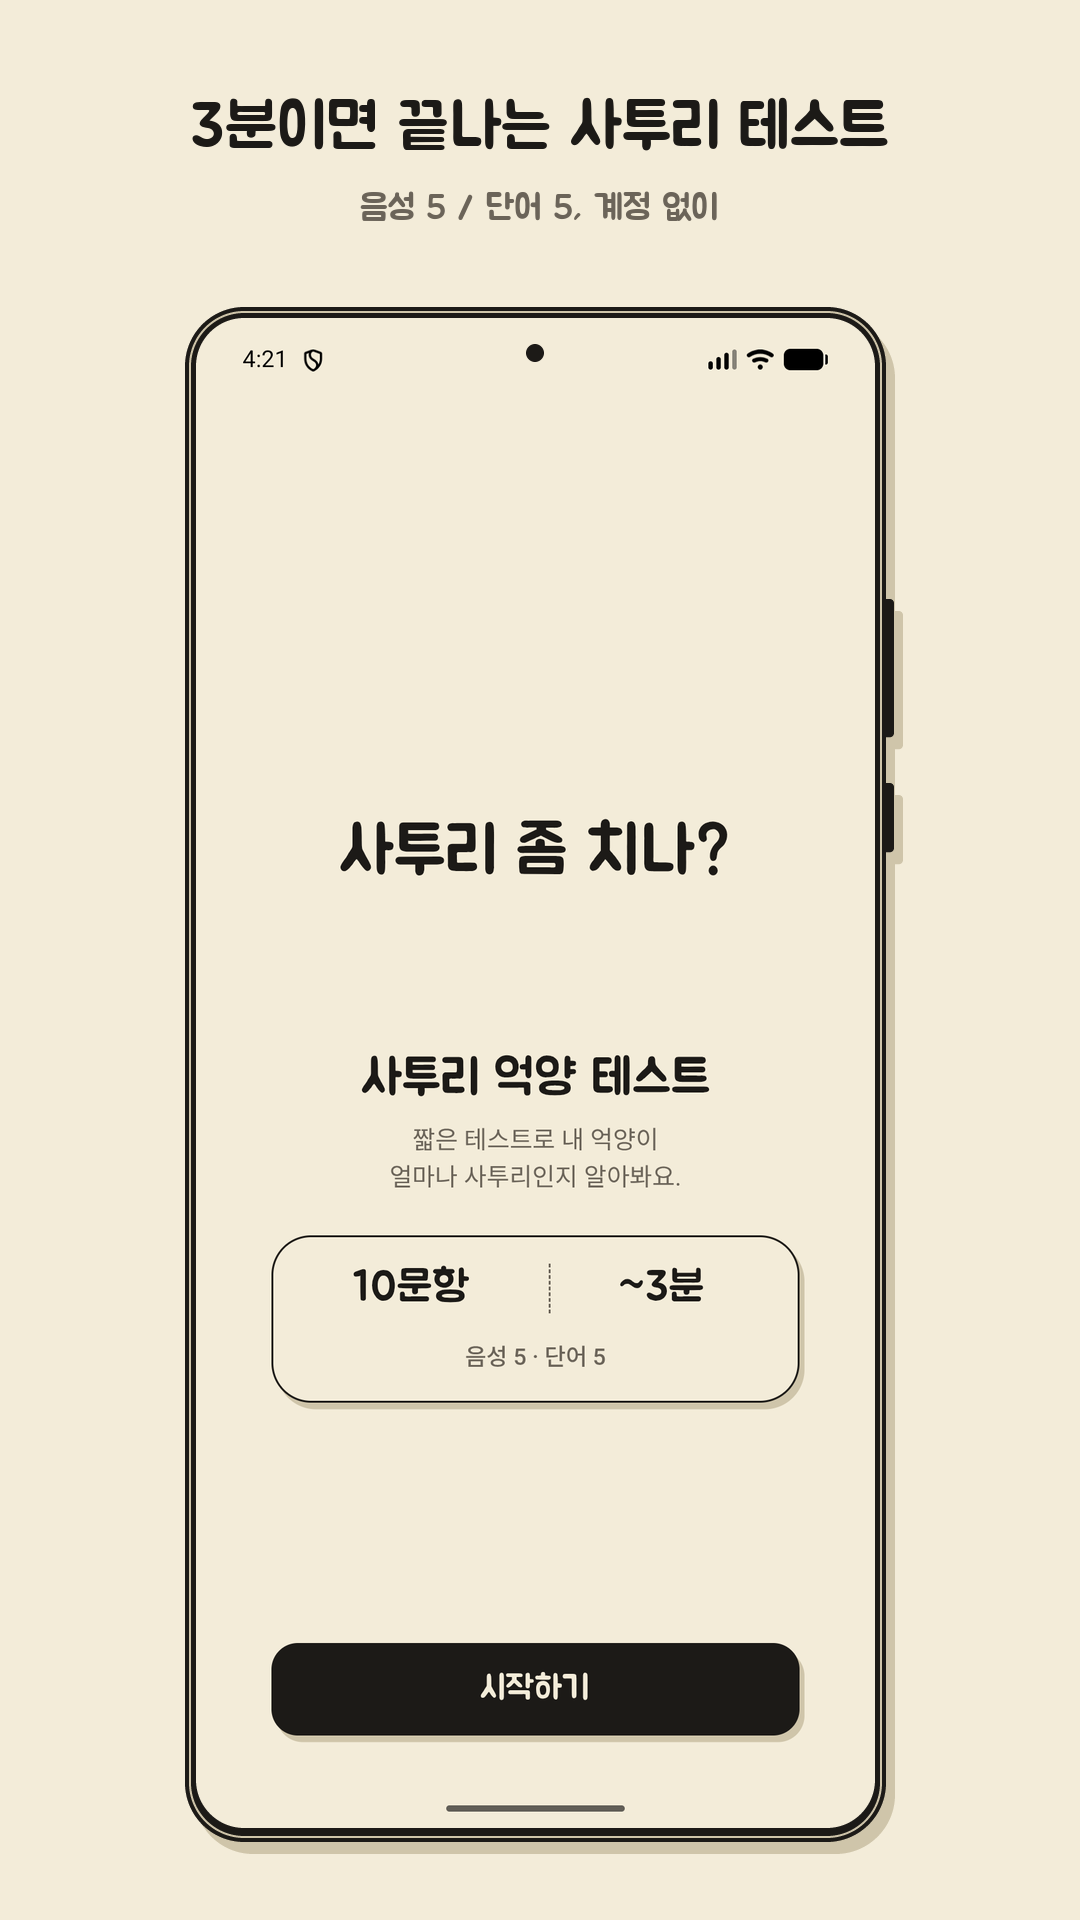
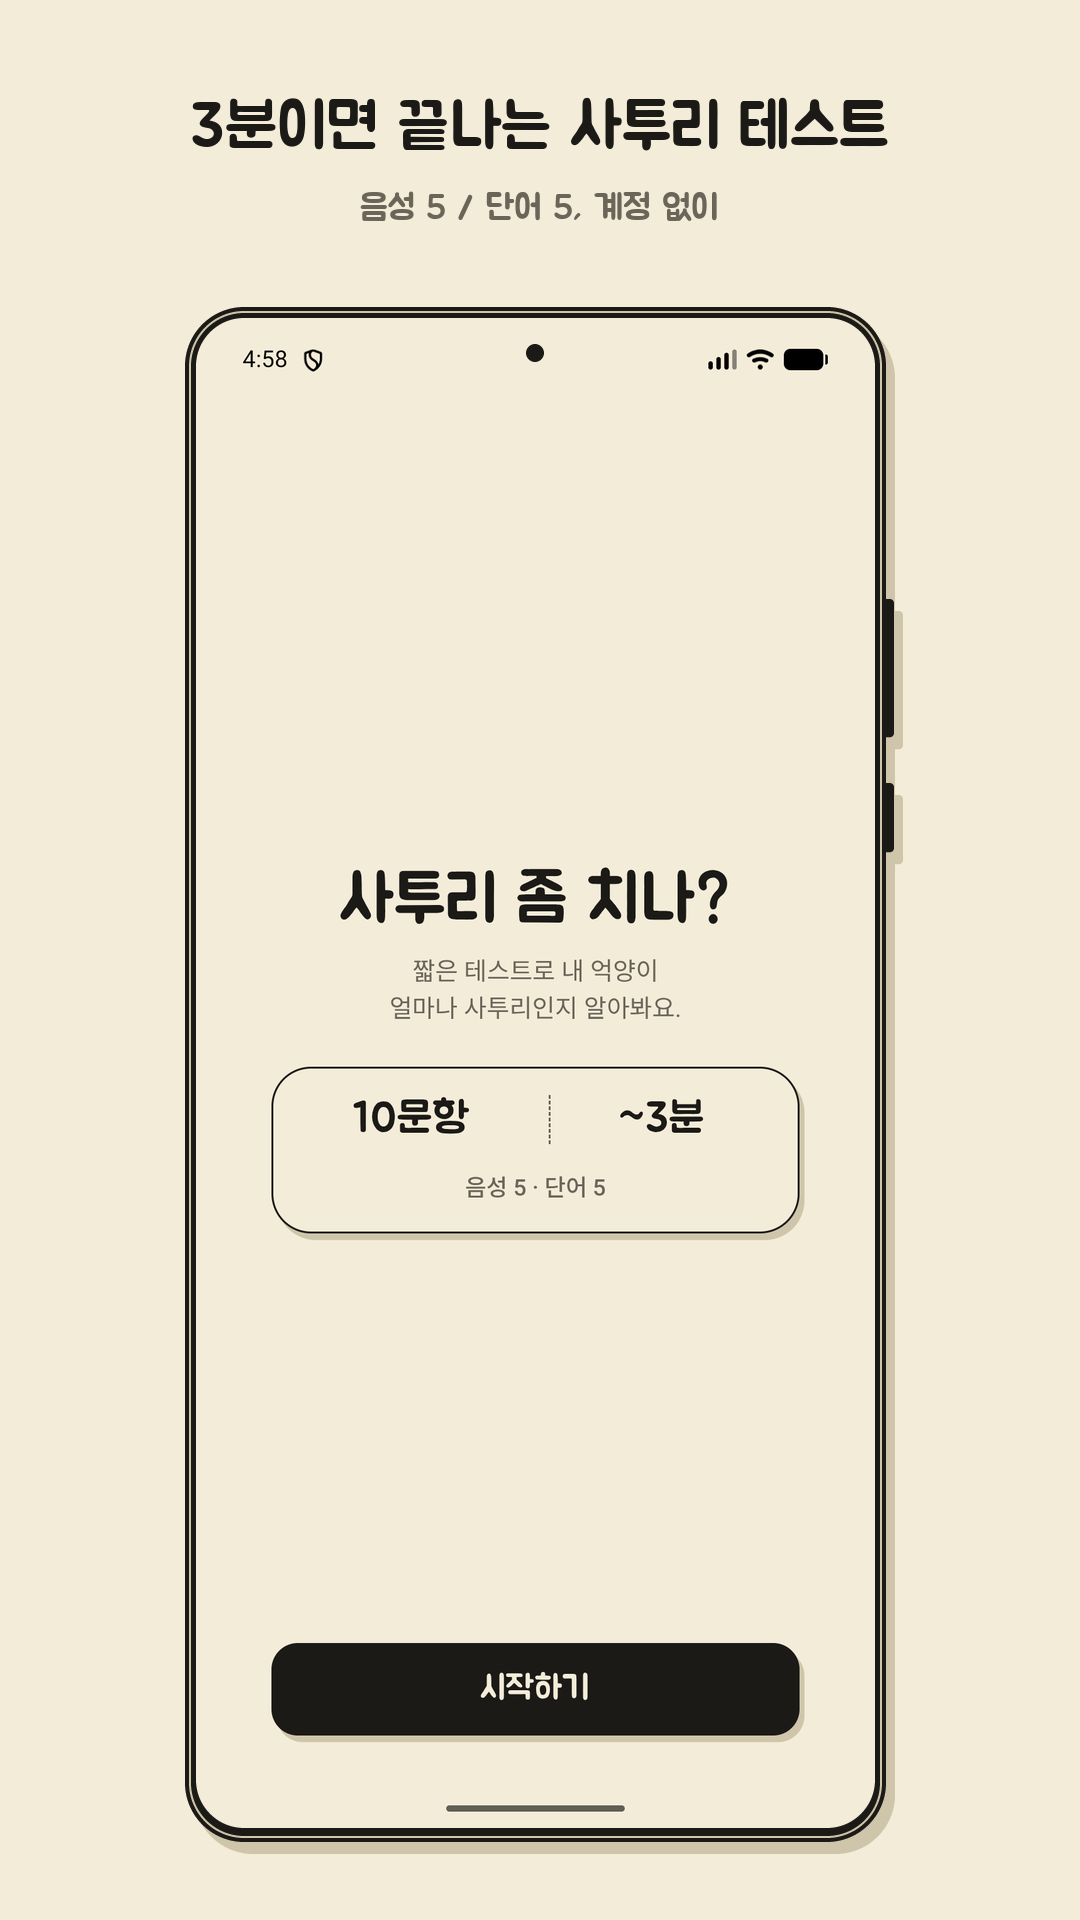
KAN-178 인트로에서 중복 제목 제거 - 텍스트 히어로가 h1 역할을 넘겨받음
- "사투리 억양 테스트" h1 삭제, TextHero에 heading 옵션 추가(인트로만 h1, 대기 화면은 기존대로 aria-hidden)
- 인트로 원본 캡처(Android·iOS) 재촬영, 프레임 재생성

Claude-Session: https://claude.ai/code/session_01Nud2Q8pYYmbEKkf6aeyY5Q

Changed region(s): [[0.2444, 0.4062, 0.7639, 0.7188], [0.275, 0.6875, 0.7333, 0.75]]

diff --git a/web/src/ui/components.css b/web/src/ui/components.css
@@ -288,18 +288,15 @@
  * 주므로 값은 화면이 변수로 넘긴다. 높이를 미리 잡아 두면 안엣것이 그려지기 전후로 아래
  * 요소가 오르내리지 않는다.
  *
- * 인트로·대기 화면은 그림 대신 `.text-hero`가 든다 (KAN-178). 슬롯 높이를 건드리지 않은
- * 것은 의도다 — 글자 한 줄이 그림보다 낮아도 아래 제목·카드는 있던 자리에 그대로 남는다.
+ * 대기 화면은 그림 대신 `.text-hero`가 든다 (KAN-178). 슬롯 높이를 건드리지 않은 것은
+ * 의도다 — 글자 한 줄이 그림보다 낮아도 아래 제목·카드는 있던 자리에 그대로 남는다.
+ * 인트로 슬롯(192)은 사라졌다: 제목을 걷어내면서 히어로를 슬롯 밖으로 꺼냈다 (`.intro-hero`).
  */
 .illustration {
   display: flex;
   align-items: center;
   justify-content: center;
   flex-shrink: 0;
-}
-
-.illustration--intro {
-  height: 192px;
 }
 
 .illustration--waiting {
@@ -311,8 +308,8 @@
  * 크림 면·오프셋 그림자)에 얹었는데, 한 화면에 종이가 두 장 겹쳐 보였다 — 바로 아래 대사
  * 카드와 같은 두께라 히어로가 카드의 예고편처럼 읽혔다. 면을 걷어내고 잉크 글자만 남긴다.
  *
- * Jua 40(`--text-display`)은 팔레트에서 가장 큰 글자다. 바로 아래 제목이 30·26이라
- * 이보다 작으면 히어로가 아니라 제목이 둘인 화면이 된다.
+ * Jua 40(`--text-display`)은 팔레트에서 가장 큰 글자다. 대기 화면은 바로 아래 제목이
+ * 30·26이라 이보다 작으면 히어로가 아니라 제목이 둘인 화면이 된다.
  *
  * `keep-all`은 한국어에서 필수다 — 기본값이면 낱말 가운데서 잘린다. `balance`는 두 줄로
  * 넘어갈 때 줄 길이를 맞춘다. 지원하지 않는 브라우저는 평범하게 흘려 담을 뿐이라 깨지지
@@ -329,6 +326,29 @@
   text-align: center;
   word-break: keep-all;
   text-wrap: balance;
+}
+
+/*
+ * 인트로의 히어로 + 부제 (KAN-178). 중복이던 제목("사투리 억양 테스트")을 걷어내면서
+ * 히어로가 이 화면의 h1이 됐고, 그러면 부제는 제목에 딸린 줄이라 **한 덩어리로 읽혀야 한다**.
+ *
+ * 그래서 인트로에서는 히어로를 192px 슬롯 밖으로 꺼냈다(대기 화면은 `.illustration--waiting`에
+ * 그대로 둔다). 슬롯은 그림이 뜨기 전후로 아래가 오르내리지 않게 높이를 미리 잡아 두는
+ * 자리인데, 글자에는 늦게 도착할 것이 없어 잡아 둘 이유가 사라졌다. 남는 것은 40px 글자를 192px 안에 가운데 세우고 생기는
+ * 위아래 ~73px의 빈 자리뿐이고, 제목이 있던 때는 그 여백이 "히어로 밴드 / 제목 블록"의
+ * 경계로 읽혔지만 지금은 제목과 부제 사이를 벌려 놓아 부제가 카드 쪽에 붙어 보인다.
+ *
+ * 간격은 걷어낸 제목이 부제와 두던 8px 그대로다. 히어로가 30px 제목보다 크니 사이도
+ * 넓혀야 할 것 같지만, 12px로 벌려 보니 부제가 카드 쪽으로 붙어 세 덩어리처럼 읽혔다 —
+ * 아래 카드와의 간격(`.screen__body`의 24px)이 위와 비슷해지는 순간 짝이 흐려진다.
+ * 8px이면 그 차이가 세 배라 "붙은 두 줄 + 떨어진 카드"로 한 번에 갈린다.
+ */
+.intro-hero {
+  display: flex;
+  flex-direction: column;
+  align-items: center;
+  gap: var(--space-2);
+  width: 100%;
 }
 
 /*

diff --git a/web/src/ui/TextHero.tsx b/web/src/ui/TextHero.tsx
@@ -6,21 +6,38 @@
  * 않았고, 스토어 스크린샷처럼 축소된 자리에서는 선이 뭉개져 무엇을 그린 것인지도 읽히지
  * 않았다 — 같은 자리에 큰 글자 한 줄을 세우면 화면을 열자마자 문장이 먼저 온다.
  *
- * `aria-hidden`이 기본인 이유는 IntroHero와 같다: 옆에 있는 h1이 이미 화면 이름을 말한다.
- * 그림이든 글자든 장식에 라벨이 붙으면 스크린 리더가 같은 화면을 두 번 소개한다.
+ * ## 장식이 기본이고 제목은 선택인 이유
+ *
+ * 두 화면이 히어로를 같은 자리에 세우지만 **접근성 트리에서 맡는 역할은 반대다**.
+ *
+ * - 분석 대기 화면(기본값): 아래 h1이 진행 상태("분석 중입니다 · N%")를 실어 나른다.
+ *   상태가 바뀔 때마다 갱신되는 그 제목이 화면 이름이라, 히어로까지 라벨을 가지면
+ *   스크린 리더가 같은 화면을 두 번 소개한다 — 그래서 `<p aria-hidden>`으로 남긴다.
+ * - 인트로 화면(`heading`): 중복이던 h1("사투리 억양 테스트")을 걷어냈다. 이제 화면
+ *   이름을 말하는 것이 히어로 문구뿐이므로 `<h1>`으로 서야 한다. 여기서 `aria-hidden`을
+ *   달아 두면 인트로에 제목이 하나도 남지 않아 접근 가능한 이름을 잃는다.
+ *
+ * 두 갈래를 boolean 하나로 가른 것은 의도다 — `aria-hidden`과 태그를 따로 받으면
+ * "h1인데 숨겨진 히어로" 같은 조합이 만들어지고, 그게 정확히 막으려는 상태다.
  */
 
 import type { ReactNode } from 'react'
 
 export interface TextHeroProps {
   children: ReactNode
-  /** 이 문구를 대신 읽어 줄 제목이 옆에 없을 때만 false로 준다 */
-  'aria-hidden'?: boolean
+  /**
+   * 이 문구가 곧 화면 이름일 때만 true — `<h1>`으로 서고 `aria-hidden`이 걷힌다.
+   * 기본값(false)은 장식이라는 뜻이고, 화면 이름을 말할 제목이 따로 있다는 전제가 붙는다.
+   */
+  heading?: boolean
 }
 
-export function TextHero({ children, 'aria-hidden': ariaHidden = true }: TextHeroProps) {
+export function TextHero({ children, heading = false }: TextHeroProps) {
+  if (heading) {
+    return <h1 className="text-hero">{children}</h1>
+  }
   return (
-    <p className="text-hero" aria-hidden={ariaHidden}>
+    <p className="text-hero" aria-hidden>
       {children}
     </p>
   )

diff --git a/web/src/intro/IntroScreen.tsx b/web/src/intro/IntroScreen.tsx
@@ -112,13 +112,17 @@ export function IntroScreen({
           종이 일러스트(확성기를 든 사람)를 걷어내고 글자를 세웠다 (KAN-178). 그림은 이 앱이
           무엇을 하는 곳인지 말하지 않았다 — 첫 화면은 사용자에게 말을 걸어야 하고, 그건
           그리는 것보다 적는 편이 빠르다.
-        */}
-        <div className="illustration illustration--intro">
-          <TextHero>사투리 좀 치나?</TextHero>
-        </div>
 
-        <div style={{ display: 'flex', flexDirection: 'column', gap: 'var(--space-2)' }}>
-          <h1 className="type-title">사투리 억양 테스트</h1>
+          히어로가 이 화면의 h1이다. 아래에 있던 제목("사투리 억양 테스트")을 걷어냈다 —
+          큰 글자로 말을 건 바로 밑에서 같은 말을 정색하고 되풀이하는 꼴이었고, 사용자가
+          그 두 줄에서 새로 얻는 정보가 없었다. 화면 이름을 말하는 것이 히어로 하나뿐이므로
+          `heading`으로 세운다 (`TextHero` 주석 참고).
+
+          제목이 빠진 만큼 히어로를 192px 슬롯에서 꺼내 부제와 한 덩어리로 묶었다 —
+          근거는 `.intro-hero` 주석에 적었다.
+        */}
+        <div className="intro-hero">
+          <TextHero heading>사투리 좀 치나?</TextHero>
           <p className="type-body-sm" style={{ color: 'var(--color-muted-foreground)' }}>
             짧은 테스트로 내 억양이
             <br />

diff --git a/web/src/App.test.tsx b/web/src/App.test.tsx
@@ -154,7 +154,8 @@ describe('App — 스큐 판정 분기', () => {
   it('호환 버전이면 인트로가 뜨고 문항 구성·예상 시간이 정확히 표시된다 (AC 1)', () => {
     setSearch(`?bridge=${REQUIRED_BRIDGE_VERSION}&app=1.0`)
     render(<App />)
-    expect(screen.getByText('사투리 억양 테스트')).toBeInTheDocument()
+    // 인트로의 h1은 텍스트 히어로다 (KAN-178) — 같은 말을 되풀이하던 제목을 걷어냈다
+    expect(screen.getByRole('heading', { level: 1, name: '사투리 좀 치나?' })).toBeInTheDocument()
     // KAN-148에서 한 문장이던 표기가 숫자 칸으로 갈렸다 - 확인하는 값은 그대로다
     expect(screen.getByText('10문항')).toBeInTheDocument()
     expect(screen.getByText('~3분')).toBeInTheDocument()
@@ -345,7 +346,7 @@ describe('App — 웹 단독 실행 (KAN-31)', () => {
 
     // 네이티브 권한 게이트가 받았으므로 웹은 여기서 손을 뗀다 — 화면 전체를 앱이 갈아치운다
     expect(screen.queryByText('목소리를 확인할게요')).not.toBeInTheDocument()
-    expect(screen.getByText('사투리 억양 테스트')).toBeInTheDocument()
+    expect(screen.getByRole('heading', { level: 1, name: '사투리 좀 치나?' })).toBeInTheDocument()
   })
 
   it('[시작하기]가 공유 링크의 유입 코드를 실어 세션을 만들고 문항 화면으로 넘긴다', async () => {

diff --git a/web/src/intro/IntroScreen.test.tsx b/web/src/intro/IntroScreen.test.tsx
@@ -126,11 +126,14 @@ describe('IntroScreen — 마이크 게이트 (KAN-56)', () => {
 })
 
 describe('IntroScreen — 텍스트 히어로 (KAN-178)', () => {
-  it('그림 대신 "사투리 좀 치나?"가 서고, 제목은 그대로 남는다', () => {
+  it('히어로 문구가 이 화면의 h1이고, 중복이던 제목은 걷혔다', () => {
     render(<IntroScreen requestWebPermission={permissionStub('granted')} />)
 
-    expect(screen.getByText('사투리 좀 치나?')).toBeInTheDocument()
-    // 히어로는 장식이라 제목을 대신하지 않는다 — 화면 이름은 여전히 h1이 말한다
-    expect(screen.getByRole('heading', { level: 1, name: '사투리 억양 테스트' })).toBeInTheDocument()
+    // 화면 이름을 말하는 것이 히어로뿐이라 장식으로 두면 인트로가 접근 가능한 이름을 잃는다
+    expect(screen.getByRole('heading', { level: 1, name: '사투리 좀 치나?' })).toBeInTheDocument()
+    // 히어로 바로 밑에서 같은 말을 되풀이하던 제목이다
+    expect(screen.queryByText('사투리 억양 테스트')).not.toBeInTheDocument()
+    // 제목 자리를 넘겨받은 것이지 하나 더 생긴 것이 아니다 — h1은 여전히 하나다
+    expect(screen.getAllByRole('heading', { level: 1 })).toHaveLength(1)
   })
 })

diff --git a/web/src/analysis/AnalysisWaitingScreen.test.tsx b/web/src/analysis/AnalysisWaitingScreen.test.tsx
@@ -531,7 +531,8 @@ describe('텍스트 히어로 (KAN-178)', () => {
       fetchImpl: fetchFor({ analyses: () => jsonResponse(200, statusesBody(Array(5).fill('PROCESSING'))) }),
     })
 
-    expect(screen.getByText('분석 중입니다')).toBeInTheDocument()
+    // 인트로와 달리 여기서는 히어로가 장식이다 (KAN-178) — 상태를 실어 나르는 h1이 아래에 있다
+    expect(screen.getByText('분석 중입니다')).toHaveAttribute('aria-hidden', 'true')
     // 히어로는 "분석 중" 한 상태를 붙박이로 말하고, 제목은 그 안에서 무엇이 진행 중인지를 말한다
     expect(screen.getByRole('heading', { level: 1, name: '결과를 만들고 있어요' })).toBeInTheDocument()
   })

diff --git a/docs/wiki/app-icon-assets.md b/docs/wiki/app-icon-assets.md
@@ -223,6 +223,7 @@ xcrun simctl io booted screenshot assets/screenshots/raw/ios/01-intro.png
 - **인트로·분석 대기 화면의 일러스트를 텍스트 히어로로 갈았다** (2026-09-03) — 오려 낸 종이 그림(확성기 든 사람·계단)이 스토어 캡처 크기로 줄면 선이 뭉개져 무엇을 그린 것인지 읽히지 않았고, 읽히더라도 앱이 무엇을 하는 곳인지는 말하지 않았다. 같은 자리에 Jua 40 잉크 한 줄을 세운다 — 인트로는 `사투리 좀 치나?`, 대기 화면은 `분석 중입니다`. 슬롯 높이(192·176)는 그대로라 아래 요소는 움직이지 않고, `raw/{android,ios}/01-intro.png`를 다시 찍어 프레임을 재생성했다.
 - **텍스트 히어로에서 종이 조각을 걷어냈다** (2026-09-03) — 히어로가 대사 카드와 같은 테두리·면·그림자를 쓰니 한 화면에 종이가 두 장 겹쳐, 히어로가 아래 카드의 예고편처럼 읽혔다. 면을 지우고 잉크 글자만 남긴다. 문구도 `니 사투리 몇 등급?`에서 `사투리 좀 치나?`로 바꿨다 — 등급을 먼저 말하는 대신 말을 건다.
 - **Play `01-intro` 캡션이 화면 문구와 겹치지 않게 갈았다** (2026-09-03) — 옛 캡션 `내 사투리, 몇 등급?`이 프레임 안 화면의 히어로와 같은 말을 두 번 했다. `3분이면 끝나는 사투리 테스트` / `음성 5 / 단어 5, 계정 없이`로 바꿔 캡션은 화면이 말하지 않는 것(길이·구성·가입 없음)만 말한다.
+- **인트로에서 중복 제목을 걷고 히어로에 h1을 넘겼다** (2026-09-03) — 히어로 `사투리 좀 치나?` 바로 아래에 제목 `사투리 억양 테스트`가 서서 같은 말을 두 번 했고, 사용자가 두 줄에서 새로 얻는 것이 없었다. 제목을 지우고 히어로를 이 화면의 h1으로 세운다(`TextHero`의 `heading`) — 화면 이름을 말하는 것이 히어로뿐이 되므로 `aria-hidden`을 그대로 두면 인트로가 접근 가능한 이름과 유일한 h1을 잃는다. 분석 대기 화면은 상태를 실어 나르는 h1이 아래에 따로 있어 기본값(장식)을 그대로 쓴다. 인트로만 192px 슬롯에서 히어로를 꺼내 부제와 8px로 묶었고, `raw/{android,ios}/01-intro.png`를 다시 찍어 프레임을 재생성했다.
 - **Jua에 없는 글자는 `build.py`가 막는다** (2026-09-03) — 새 캡션의 가운뎃점(U+00B7)이 Jua에 없어 두부(□)로 그려졌는데 검증 14개가 전부 통과했다. Pillow는 글리프가 없어도 조용히 그린다. `assert_glyphs()`가 캡션 글자를 cmap과 대조해 죽는다(fontTools가 없으면 건너뛴다). 구분자는 슬래시로 갈았다.
 
 ## 7. 이월

diff --git a/docs/wiki/design-tokens.md b/docs/wiki/design-tokens.md
@@ -524,14 +524,24 @@ KAN-148의 AC "텍스트 대비 4.5:1"은 이제 예외 없이 지켜진다.
 빌렸는데, 히어로 바로 아래에 같은 두께의 카드가 서니 한 화면에 종이가 두 장 겹쳐 보였다 —
 히어로가 카드의 예고편처럼 읽히는 자리다. 테두리·그림자·면을 다 걷고 잉크 글자만 남긴다.
 남긴 것은 좌우 여백(`space-6`)뿐이고, 긴 문구가 화면 가장자리에 붙지 않게 하는 몫이다.
-글자는 `font-display` `text-display`(40) 400이다: 바로 아래 제목이 30·26이라 이보다 작으면
-히어로가 아니라 제목이 둘인 화면이 된다.
+글자는 `font-display` `text-display`(40) 400이다: 대기 화면은 바로 아래 제목이 30·26이라
+이보다 작으면 히어로가 아니라 제목이 둘인 화면이 된다.
 
-기본값이 `aria-hidden`인 이유는 옆에 있는 h1이 이미 화면 이름을 말하기 때문이다. 장식에 라벨을
-붙이면 스크린 리더가 같은 화면을 두 번 소개한다.
+**접근성 트리에서 맡는 역할은 두 화면이 반대다.** 기본값은 `<p aria-hidden>`이고, 전제는
+화면 이름을 말하는 제목이 따로 있다는 것이다 — 분석 대기 화면이 그렇다. 그쪽 h1은 진행
+상태(`결과를 만들고 있어요` · 폴링 퍼센트)를 실어 나르므로 히어로까지 라벨을 가지면 스크린
+리더가 같은 화면을 두 번 소개한다.
 
-바깥 슬롯(`.illustration--intro` 192 · `--waiting` 176)의 높이는 건드리지 않았다. 글자 한 줄이
-그림보다 낮아도 아래 제목·카드는 있던 자리에 그대로 남는다.
+인트로는 `heading`을 준다. 히어로 밑에 있던 제목 `사투리 억양 테스트`가 같은 말을 되풀이해
+걷어냈고(KAN-178), 그러면 화면 이름을 말하는 것이 히어로뿐이라 `<h1>`으로 서야 한다 —
+`aria-hidden`을 그대로 두면 인트로가 접근 가능한 이름과 유일한 h1을 함께 잃는다. 두 갈래를
+태그와 `aria-hidden`으로 따로 받지 않고 boolean 하나로 가른 것은 "h1인데 숨겨진 히어로"라는
+조합을 못 만들게 하려는 것이다.
+
+바깥 슬롯(`.illustration--waiting` 176)의 높이는 건드리지 않았다. 글자 한 줄이 그림보다 낮아도
+아래 제목·카드는 있던 자리에 그대로 남는다. 인트로만 슬롯에서 히어로를 꺼내 부제와 8px로 묶은
+`.intro-hero`를 쓴다 — 제목이 빠진 지금 부제는 히어로에 딸린 줄이라 한 덩어리로 읽혀야 하는데,
+192px 안에 40px 글자를 가운데 세우면 아래로 ~73px이 깔려 부제가 도리어 카드 쪽에 붙어 보였다.
 
 ## 9. 접근성 최소선 검증
 
